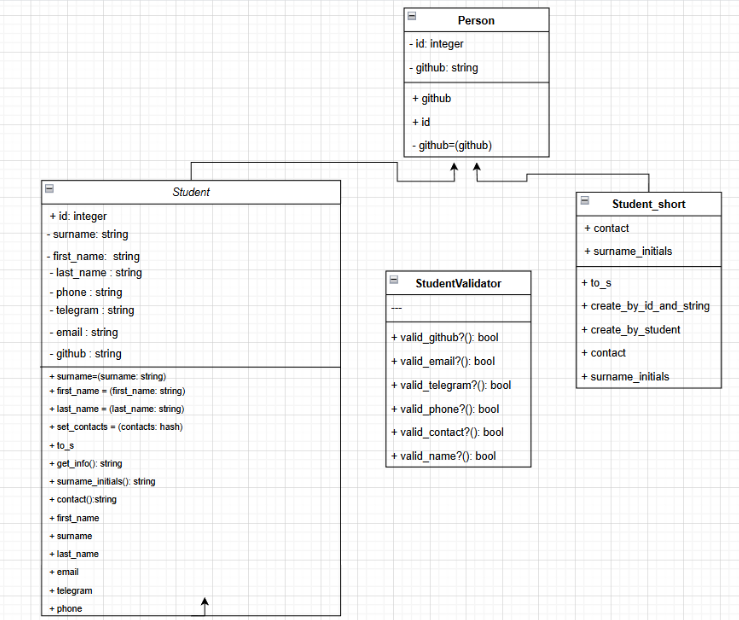
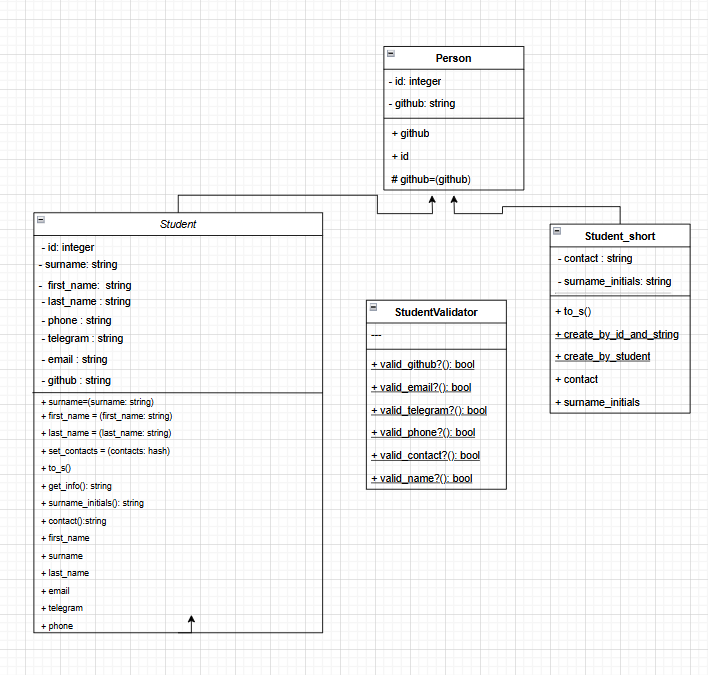
2.2.5  code_refactoring

Changed region(s): [[0.0311, 0.0, 0.9944, 1.0], [0.4972, 0.429, 0.7458, 0.7661]]

diff --git a/StudentsLab/Main.rb b/StudentsLab/Main.rb
@@ -1,20 +1,22 @@
 require './Student.rb'
 require './Student_short.rb'
 require "./StudentBinaryTree.rb"
-student1 = Student.new(first_name: "Akhmed",last_name: "Ruslanovich",surname: "Gadjiev", github: "https://github.com/Heisenbq")
-student2 = Student.new(surname: "Gadjiev",first_name: "Akhmed",last_name: "Ruslanovich", email: "asd@mail.ru",phone: "8-960-480-74-23",  id: 2, telegram: "@valid_username",  github: "https://github.com/Heisenbq")
-student3 = Student.new(first_name: "Akhmed",last_name: "Ruslanovich",surname: "Gadjiev", github: "https://github.com/Heisenbq")
-student4 = Student.new(first_name: "Akhmed",last_name: "Ruslanovich",surname: "Gadjiev", github: "https://github.com/Heisenbq")
+# student1 = Student.new(first_name: "Akhmed",last_name: "Ruslanovich",surname: "Gadjiev", github: "https://github.com/Heisenbq")
+# student2 = Student.new(surname: "Gadjiev",first_name: "Akhmed",last_name: "Ruslanovich", email: "asd@mail.ru",phone: "8-960-480-74-23",  id: 2, telegram: "@valid_username",  github: "https://github.com/Heisenbq")
+# student3 = Student.new(first_name: "Akhmed",last_name: "Ruslanovich",surname: "Gadjiev", github: "https://github.com/Heisenbq")
+# student4 = Student.new(first_name: "Akhmed",last_name: "Ruslanovich",surname: "Gadjiev", github: "https://github.com/Heisenbq")
 
-student1.dob = "2002-05-06"
-student2.dob = "2002-08-12"
-student3.dob = "2002-01-25"
-student4.dob = "2002-06-23"
+# student1.dob = "2002-05-06"
+# student2.dob = "2002-08-12"
+# student3.dob = "2002-01-25"
+# student4.dob = "2002-06-23"
 
-tree = StudentBinaryTree.new()
-tree.insert(student1)
-tree.insert(student2)
-tree.insert(student3)
-tree.insert(student4)
-tree.each {|el| puts el.student.dob}
+# tree = StudentBinaryTree.new()
+# tree.insert(student1)
+# tree.insert(student2)
+# tree.insert(student3)
+# tree.insert(student4)
+# tree.each {|el| puts el.student.dob}
+
+stud = Student_short.new()
 

diff --git a/StudentsLab/Student_short.rb b/StudentsLab/Student_short.rb
@@ -3,6 +3,7 @@ require './Person.rb'
 require './StudentValidator.rb'
 class Student_short < Person
   attr_reader :contact, :surname_initials
+  private_class_method :new
 
   def self.create_by_student(student)    
     contact = student.contact
@@ -23,7 +24,6 @@ class Student_short < Person
     " Id: #{@id}\n Contact: #{@contact}\n Github: #{@github}\n Surname and initials: #{@surname_initials}"
   end
 
-  private 
   def initialize(id,surname_initials,contact,github)
     @contact =contact
     if !StudentValidator.valid_contact?(contact) && !contact == "info about contacts is empty"

diff --git a/StudentsLab/Person.rb b/StudentsLab/Person.rb
@@ -9,4 +9,8 @@ class Person
     end
     @github = github
   end
+
+  def contact(){
+    
+  }
 end
